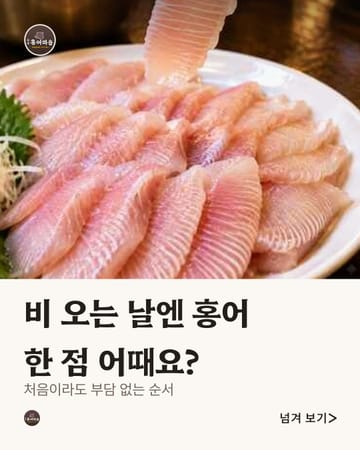
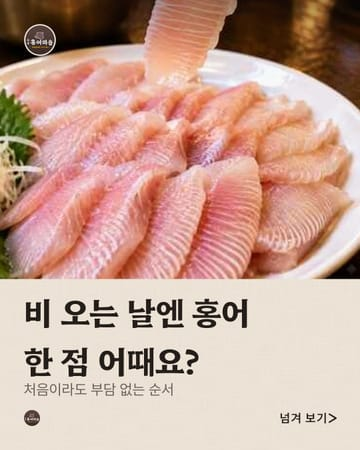
화이트 매거진: 순백 대신 따뜻한 크림 종이 + 옅은 리넨 결(사장님: 흰색이 사진과 이질적)

diff --git a/src/features/images/styles/whiteMagazine.ts b/src/features/images/styles/whiteMagazine.ts
@@ -1,5 +1,6 @@
 import sharp, { type OverlayOptions } from "sharp";
 import { brandHandle, finishPhoto, svgLayer, textLayer } from "../render/primitives";
+import { textureLayer } from "../decor";
 import { nextCue, snap, type StyleContent } from "./shared";
 import { MARGIN, SANS, SANS_SEMI, SAVE_CHIP, SHADE, TITLE_SERIF, fitLines, logoMark, shortLines } from "./trackKit";
 
@@ -10,7 +11,8 @@ import { MARGIN, SANS, SANS_SEMI, SAVE_CHIP, SHADE, TITLE_SERIF, fitLines, logoM
 // 색: 종이 #FBF8F3, 먹색 #241E1B, 보조 #6E625B. 강조색 없음.
 const W=1080,H=1350;
 const CONTENT_W=W-MARGIN*2;
-const PAPER="#FBF8F3",INK="#241E1B",DIM="#6E625B",RULE="#D9D2C8";
+// 순백은 어두운 음식 사진과 부딪혀 이질적(사장님 2026-10-21). 따뜻한 크림 종이에 리넨 결을 옅게.
+const PAPER="#EFE6D9",INK="#241E1B",DIM="#6A5D55",RULE="#CFC4B5";
 
 const titleOf=(content:StyleContent,sizes:number[],maxLines:number)=>fitLines(content.headline,{sizes,width:CONTENT_W,font:TITLE_SERIF,color:INK,maxLines,prefer:sizes[0]>=96?"size":"lines",spacing:size=>Math.round(size*.06),letterSpacing:size=>-size*.015});
 const lineOf=(text:string,size:number)=>textLayer(text,{size,color:DIM,width:CONTENT_W,height:4000,font:SANS,spacing:10});
@@ -44,6 +46,8 @@ async function card(photo:Buffer|undefined,content:StyleContent,index:number):Pr
   const markTop=blockTop,titleTop=blockTop+(markH?markH+markGap:0),subTop=titleTop+title.layer.info.height+18;
   let svg="";
   const layers:OverlayOptions[]=[];
+  const linen=await textureLayer("linen",{opacity:.2});
+  if(linen)layers.push(linen);
   if(shot)layers.push({input:shot,left:0,top:0});
   const marks:OverlayOptions[]=[];
   // 장 번호·로고는 사진 위면 흰색(그늘 없이 읽히게 위쪽에 얇은 그늘), 종이 위면 먹색.
